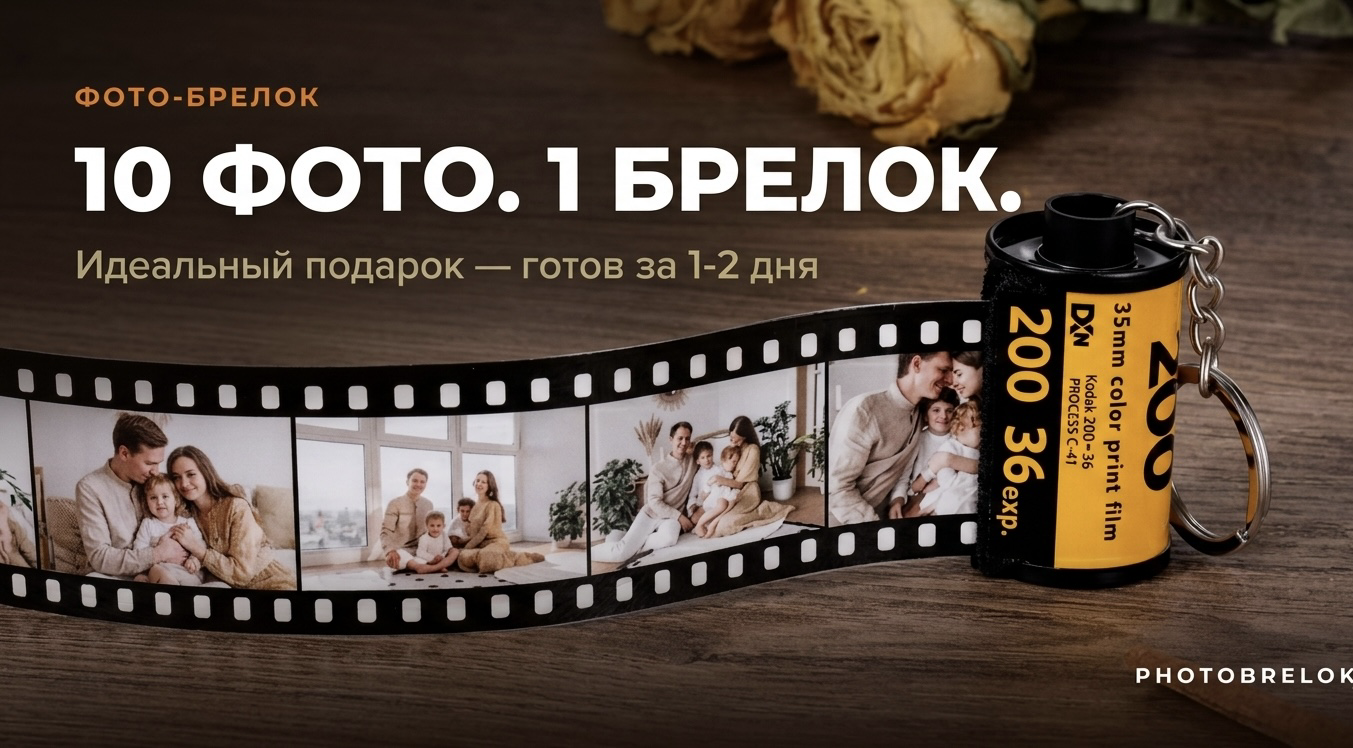
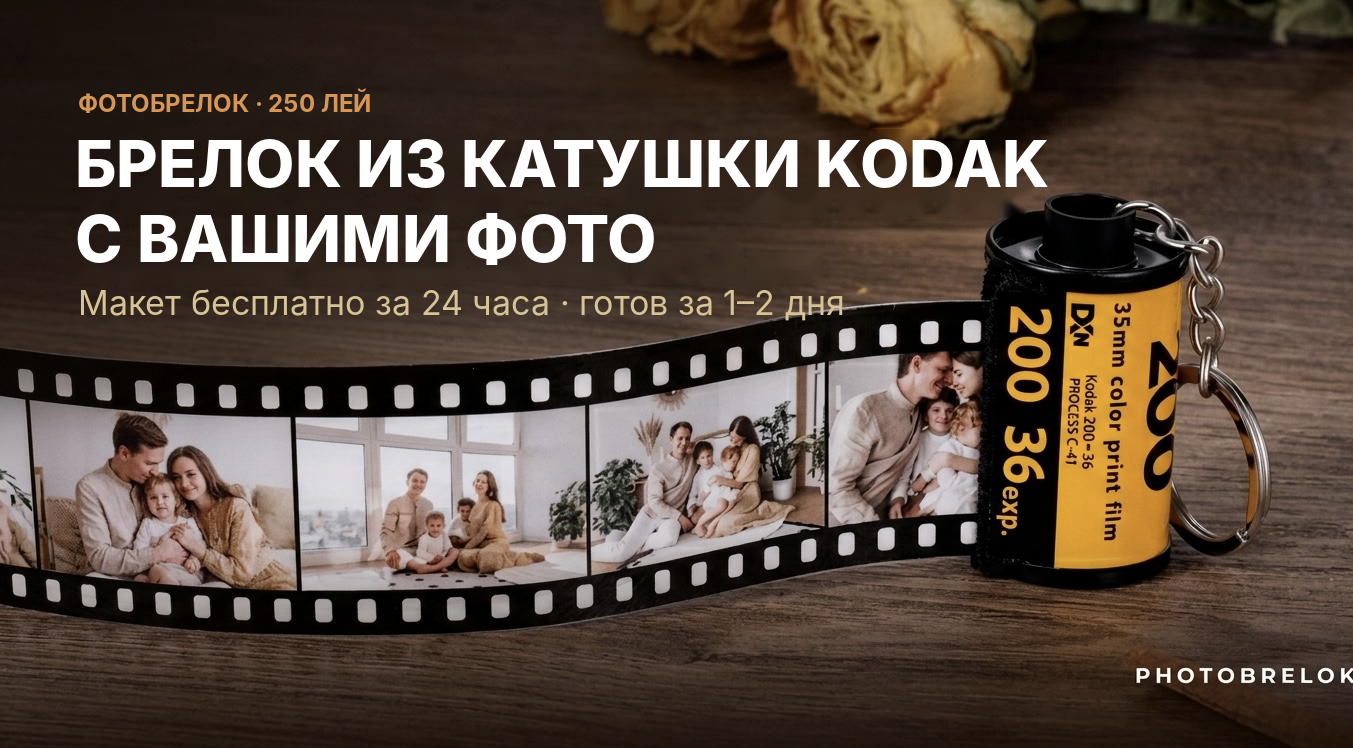
Единый заголовок «Брелок из катушки Kodak с вашими фото»: title, description, OG/Twitter и превью-картинка
Claude-Session: https://claude.ai/code/session_01PykQxuRGz7KYSbeKadW3o7

Changed region(s): [[0.031, 0.1537, 0.7761, 0.4305], [0.031, 0.0922, 0.2794, 0.1537]]

diff --git a/app/layout.tsx b/app/layout.tsx
@@ -28,12 +28,12 @@ const siteUrl =
 export const metadata: Metadata = {
   metadataBase: new URL(siteUrl),
   alternates: { canonical: "/" },
-  title: "PHOTOBRELOK — подарок с вашими фото на плёнке Kodak",
+  title: "Брелок из катушки Kodak с вашими фото | PHOTOBRELOK",
   description:
-    "Подарите день, который захочется пережить снова: брелок из катушки Kodak с 6–10 вашими фото. 250 лей. Макет бесплатно, оплата при получении, 1–2 дня.",
+    "6–10 ваших кадров на плёнке в катушке Kodak. 250 лей, макет бесплатно за 24 часа, брелок за 1–2 дня, оплата при получении.",
   openGraph: {
-    title: "PHOTOBRELOK — 10 фото в 1 брелоке Kodak",
-    description: "Личный подарок: ваши фото на плёнке внутри катушки Kodak. 250 лей, бесплатный макет до оплаты.",
+    title: "Брелок из катушки Kodak с вашими фото | PHOTOBRELOK",
+    description: "6–10 ваших кадров на плёнке в катушке Kodak. 250 лей, макет бесплатно, оплата при получении.",
     url: siteUrl,
     siteName: "PHOTOBRELOK",
     locale: "ru_RU",
@@ -49,8 +49,8 @@ export const metadata: Metadata = {
   },
   twitter: {
     card: "summary_large_image",
-    title: "PHOTOBRELOK — 10 фото в 1 брелоке Kodak",
-    description: "Личный подарок: ваши фото на плёнке внутри катушки Kodak. 250 лей, бесплатный макет до оплаты.",
+    title: "Брелок из катушки Kodak с вашими фото | PHOTOBRELOK",
+    description: "6–10 ваших кадров на плёнке в катушке Kodak. 250 лей, макет бесплатно, оплата при получении.",
     images: ["/opengraph-image.png"],
   },
 };

diff --git a/lib/i18n.ts b/lib/i18n.ts
@@ -126,7 +126,7 @@ export const translations: Record<Locale, Dict> = {
     meta: {
       title: "Брелок из катушки Kodak с вашими фото | Photobrelok",
       description:
-        "Загрузите любимые фото и получите уникальный брелок с мини-фотографиями. Оплата при получении.",
+        "6–10 ваших кадров на плёнке в катушке Kodak. Макет бесплатно за 24 часа, брелок за 1–2 дня, оплата при получении.",
     },
     home: {
       title: "Брелок из катушки Kodak с вашими фото",
@@ -254,12 +254,12 @@ export const translations: Record<Locale, Dict> = {
   },
   ro: {
     meta: {
-      title: "Breloc foto personalizat | Photobrelok",
+      title: "Breloc din casetă Kodak cu pozele tale | Photobrelok",
       description:
-        "Încarcă pozele preferate și primești un breloc unic cu mini-fotografii. Plată la livrare.",
+        "6–10 cadre ale tale pe film într-o casetă Kodak. Machetă gratuită în 24 de ore, breloc în 1–2 zile, plata la primire.",
     },
     home: {
-      title: "Breloc foto personalizat",
+      title: "Breloc din casetă Kodak cu pozele tale",
       subtitle:
         "Încarcă de la 6 la 10 poze preferate — le imprimăm pe film și facem un breloc unic",
       priceLine: (price: number) => `${price} lei · Plată la livrare`,
